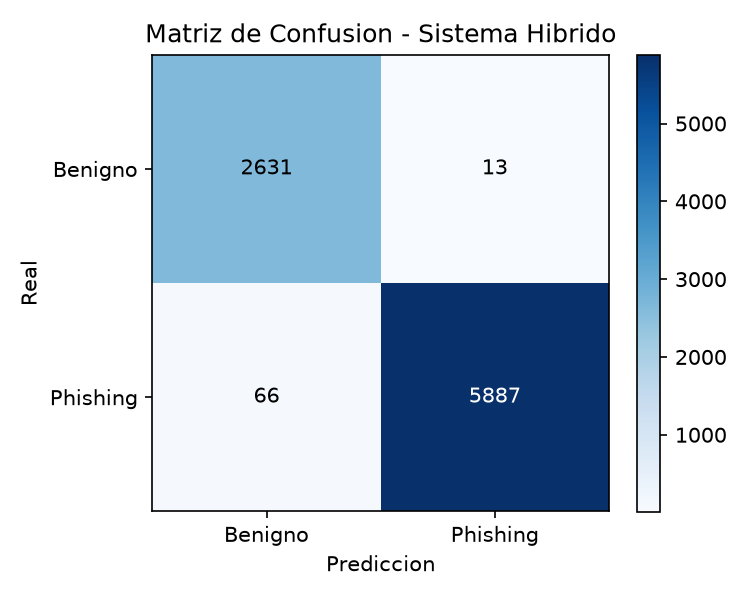
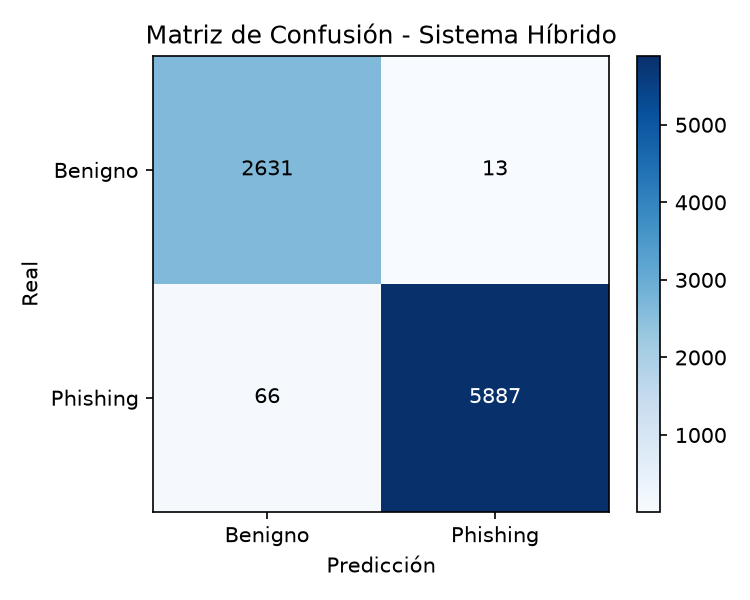
Acentuar los rotulos de la figura y propagar el hash
Los rotulos de matriz_confusion.png decian "Confusion", "Hibrido" y
"Prediccion", sin tildes. La figura se regenero a partir de
metricas_hibrido.json, sin reentrenar: los cuatro valores (TN=2631, FP=13,
FN=66, TP=5887) son los de la corrida oficial y la geometria replica
graficar_matriz_confusion(). Cambia solo el texto de los rotulos.

Como el hash del PNG cambia, se actualizaron en cadena MANIFIESTO_SHA256.json
y EXPECTED_MATRIX_PNG_SHA256 del verificador. Tambien se acentuaron los
rotulos en src/fase5_6_entrenamiento.py para que una corrida futura del
pipeline reproduzca la misma figura en lugar de revertirla.

scripts/verificar_resultados.py sigue en exit 0.

diff --git a/src/fase5_6_entrenamiento.py b/src/fase5_6_entrenamiento.py
@@ -113,8 +113,8 @@ def graficar_matriz_confusion(cm, nombre_archivo):
                     color="white" if cm[i, j] > cm.max() / 2 else "black")
     ax.set_xticks([0, 1]); ax.set_xticklabels(["Benigno", "Phishing"])
     ax.set_yticks([0, 1]); ax.set_yticklabels(["Benigno", "Phishing"])
-    ax.set_xlabel("Prediccion"); ax.set_ylabel("Real")
-    ax.set_title("Matriz de Confusion - Sistema Hibrido")
+    ax.set_xlabel("Predicción"); ax.set_ylabel("Real")
+    ax.set_title("Matriz de Confusión - Sistema Híbrido")
     fig.colorbar(image)
     fig.tight_layout()
     fig.savefig(os.path.join(RESULTS_DIR, nombre_archivo), dpi=150)

diff --git a/scripts/verificar_resultados.py b/scripts/verificar_resultados.py
@@ -26,7 +26,7 @@ EXPECTED_COUNTS = {
 EXPECTED_TEST = {"total": 8597, "benignas": 2644, "phishing": 5953}
 EXPECTED_HYBRID_MATRIX = {"TN": 2631, "FP": 13, "FN": 66, "TP": 5887}
 EXPECTED_MATRIX_PNG_SHA256 = (
[2 lines of base64/hex data omitted]
 )
 SCENARIOS = (
     "Solo URL",
